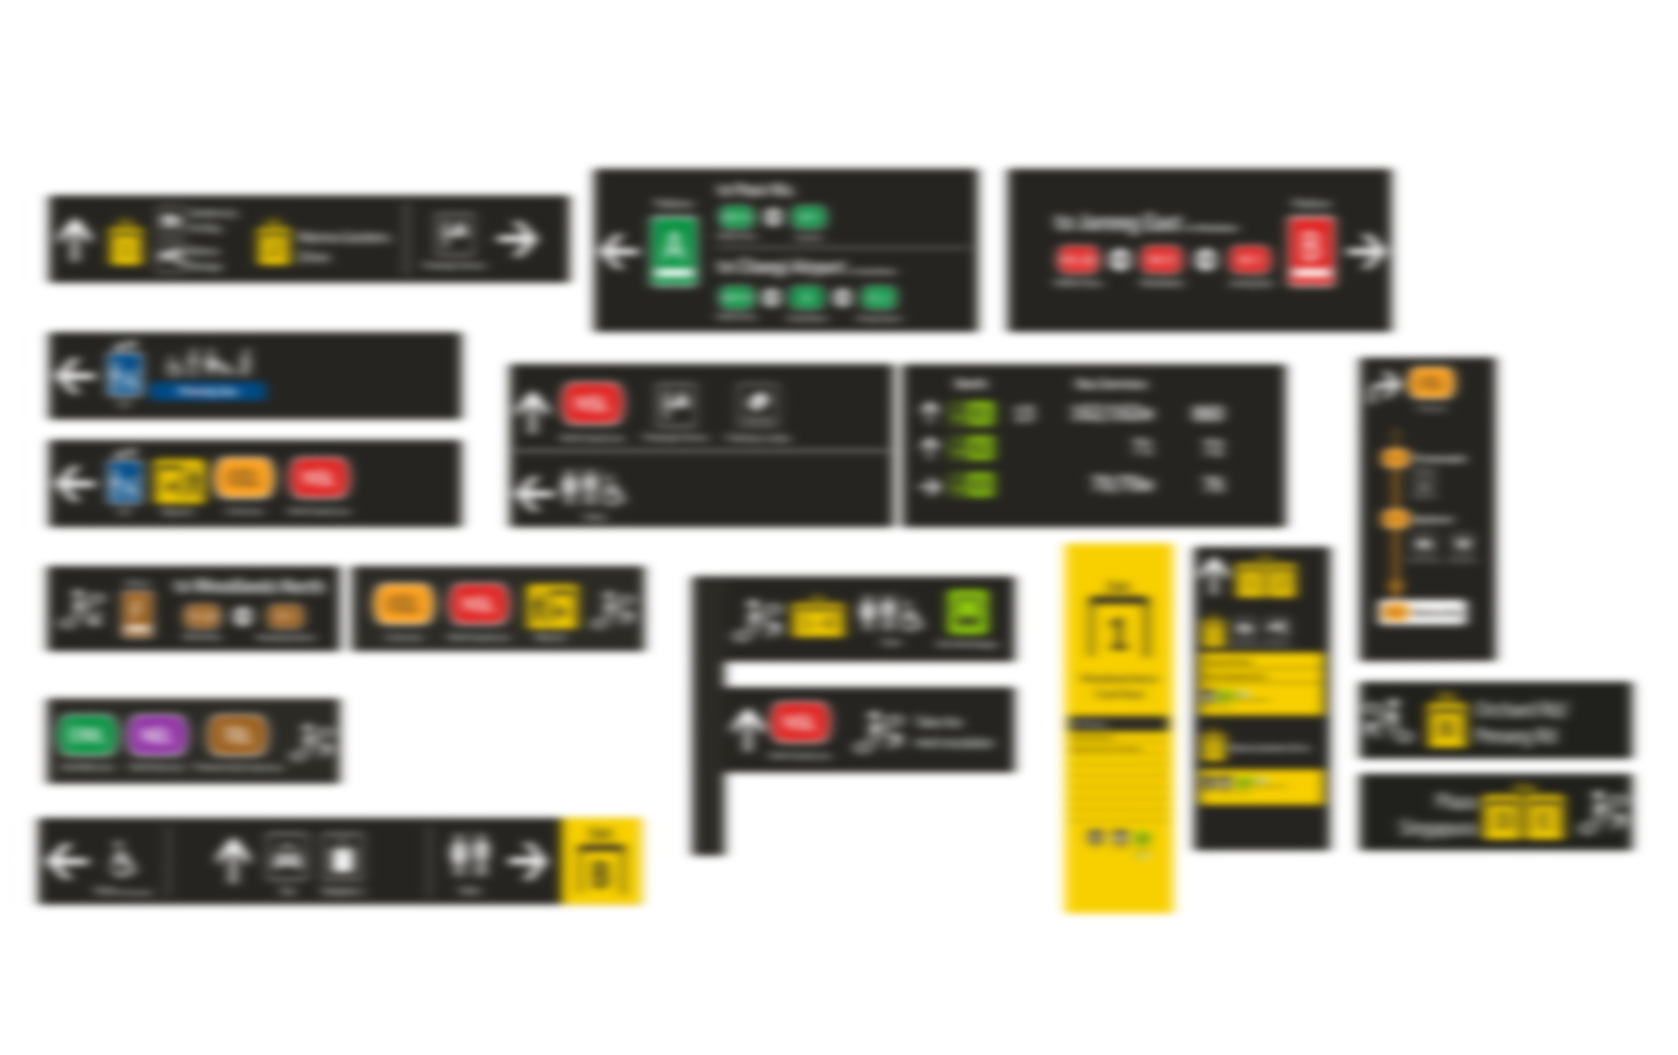
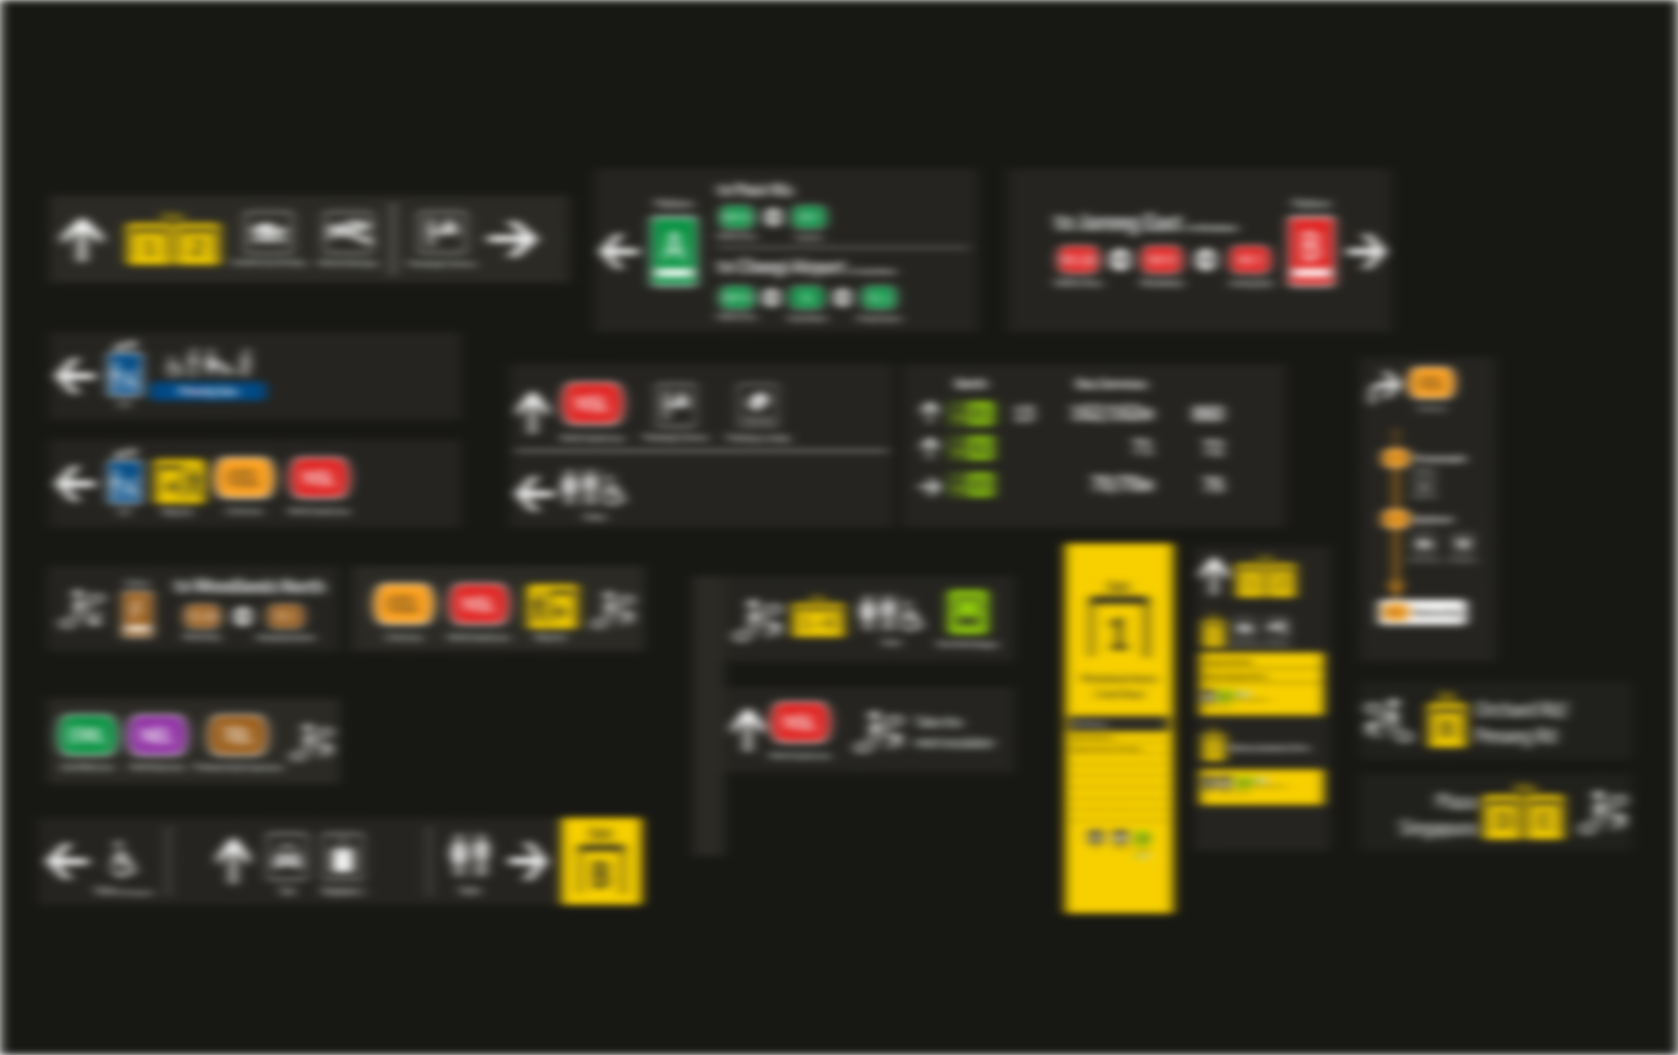
2023-01 Feature Update to signages-nrfz

diff --git a/index.html b/index.html
@@ -140,7 +140,7 @@
                   class="glightbox preview-link"><img src="assets/img/prob-sol-img/nws.jpg" class="img-fluid-portfolio"
                     alt=""></a>
                 <br><br>
-                <p class="contextImg-caption">Fig.1: The New Wayfinding System - in the initial state before
+                <p class="contextImg-caption">Fig. 1: The New Wayfinding System - in the initial state before
                   modifications
                   <br><b>Photo Credits: <a
                       href="https://eyeondesign.aiga.org/one-designers-quest-to-redesign-singapores-subway-signage/">
@@ -178,7 +178,7 @@
                   class="glightbox preview-link"><img src="assets/img/prob-sol-img/wdl-1.jpg"
                     class="img-fluid-portfolio" alt=""></a>
                 <br><br>
-                <p class="contextImg-caption text-center">Fig.2: Woodlands TEL's Portable Signs telling commuters to use
+                <p class="contextImg-caption text-center">Fig. 2: Woodlands TEL's Portable Signs telling commuters to use
                   the other set of escalators to NSL.
 
                 </p>
@@ -189,7 +189,7 @@
                   class="glightbox preview-link"><img src="assets/img/prob-sol-img/lnt-1.jpg"
                     class="img-fluid-portfolio" alt=""></a>
                 <br><br>
-                <p class="contextImg-caption text-center">Fig.3: Paper signs showing the Exit Directories
+                <p class="contextImg-caption text-center">Fig. 3: Paper signs showing the Exit Directories
 
                 </p>
               </div>
@@ -200,7 +200,7 @@
                     class="img-fluid-portfolio" alt=""></a>
                 <br><br>
                 <div class="portfolio-info">
-                  <p class="contextImg-caption text-center">Fig.4: Marina Bay TEL's Portable Signs telling commuters to
+                  <p class="contextImg-caption text-center">Fig. 4: Marina Bay TEL's Portable Signs telling commuters to
                     use
                     the other set of escalators to NSL. This is the same problem as the ones in woodlands TEL.
 
@@ -214,7 +214,7 @@
                     class="img-fluid-portfolio" alt=""></a>
                 <br><br>
                 <div class="portfolio-info">
-                  <p class="contextImg-caption text-center">Fig.5: Marina Bay TEL's Portable Signs showing commuters the
+                  <p class="contextImg-caption text-center">Fig. 5: Marina Bay TEL's Portable Signs showing commuters the
                     directions to NSL/CCL.
 
                   </p>
@@ -261,7 +261,7 @@
                         class="img-fluid-portfolio" alt=""></a>
                     <br><br>
                     <div class="portfolio-info">
-                      <p class="contextImg-caption text-center">Fig.6: A few examples of icons being used in the system.
+                      <p class="contextImg-caption text-center">Fig. 6: A few examples of icons being used in the system.
                         Recreated the real-life ones as accurate as possible
 
                       </p>
@@ -290,7 +290,7 @@
                         class="img-fluid-portfolio" alt=""></a>
                     <br><br>
                     <div class="portfolio-info">
-                      <p class="contextImg-caption text-center">Fig.7: Way Out icons at the Platform. The Exit
+                      <p class="contextImg-caption text-center">Fig. 7: Way Out icons at the Platform. The Exit
                         Directories are only available at the Concourse level
                         <br><b>Photo Credits: <a href="https://mothership.sg/2019/12/lta-new-map/">
                             Mothership.sg</a></b>
@@ -311,7 +311,7 @@
                         class="img-fluid-portfolio" alt=""></a>
                     <br><br>
                     <div class="portfolio-info">
-                      <p class="contextImg-caption text-center">Fig.8: Mayflower TEL's Portable Exit Directory (1)
+                      <p class="contextImg-caption text-center">Fig. 8: Mayflower TEL's Portable Exit Directory (1)
                         <br><b>Photo Credits: Discord User Adiel</b>
                       </p>
                     </div>
@@ -324,7 +324,7 @@
                         class="img-fluid-portfolio" alt=""></a>
                     <br><br>
                     <div class="portfolio-info">
-                      <p class="contextImg-caption text-center">Fig.9: Mayflower TEL's Portable Exit Directory (2)
+                      <p class="contextImg-caption text-center">Fig. 9: Mayflower TEL's Portable Exit Directory (2)
                         <br><b>Photo Credits: Discord User Adiel</b>
                       </p>
                     </div>
@@ -357,7 +357,7 @@
                         class="img-fluid-portfolio" alt=""></a>
                     <br><br>
                     <div class="portfolio-info">
-                      <p class="contextImg-caption text-center">Fig.10: Current Exit Directory list
+                      <p class="contextImg-caption text-center">Fig. 10: Current Exit Directory list
                       </p>
                     </div>
                   </div>
@@ -368,7 +368,7 @@
                         class="img-fluid-portfolio" alt=""></a>
                     <br><br>
                     <div class="portfolio-info">
-                      <p class="contextImg-caption text-center">Fig.11: Using Google Maps, they would normally tell you
+                      <p class="contextImg-caption text-center">Fig. 11: Using Google Maps, they would normally tell you
                         which Exits to take immediately. (Picture edited for privacy reasons) </b>
                       </p>
                     </div>
@@ -395,7 +395,7 @@
                         class="img-fluid-portfolio" alt=""></a>
                     <br><br>
                     <div class="portfolio-info">
-                      <p class="contextImg-caption text-center">Fig.12: A few examples of different icons being used in
+                      <p class="contextImg-caption text-center">Fig. 12: A few examples of different icons being used in
                         the system. Raffles Place uses a different set of icons (particularly, the Way Out and Exit
                         Letter icon), which seems like a newer design.
                         Recreated the real-life ones as accurate as possible
@@ -420,7 +420,7 @@
                       class="img-fluid-portfolio" alt=""></a>
                   <br><br>
                   <div class="portfolio-info">
-                    <p class="contextImg-caption text-center">Fig.13: New fonts, mix with old design? <br>
+                    <p class="contextImg-caption text-center">Fig. 13: New fonts, mix with old design? <br>
                       <b>Photo Credits: Discord user Joofer</a></b>
                     </p>
                   </div>
@@ -432,7 +432,7 @@
                       class="img-fluid-portfolio" alt=""></a>
                   <br><br>
                   <div class="portfolio-info">
-                    <p class="contextImg-caption text-center">Fig.14: New fonts, mix with old design? <br>
+                    <p class="contextImg-caption text-center">Fig. 14: New fonts, mix with old design? <br>
                       <b>Photo Credits: Discord user poopoo</a></b>
                     </p>
                   </div>
@@ -444,7 +444,7 @@
                       class="img-fluid-portfolio" alt=""></a>
                   <br><br>
                   <div class="portfolio-info">
-                    <p class="contextImg-caption text-center">Fig.15: Entirely new design <br>
+                    <p class="contextImg-caption text-center">Fig. 15: Entirely new design <br>
                       <b>Photo Credits: <a
                           href="https://www.instagram.com/p/CevPzR_pt8z/?utm_source=ig_embed&ig_rid=3777a39e-1425-415d-9963-ccd278406cee">
                           Instagram user mtsginfo</a></b>
@@ -515,7 +515,7 @@
                   class="glightbox preview-link"><img src="assets/img/prob-sol-img/mrbr.png" class="img-fluid-portfolio"
                     alt=""></a>
                 <br><br>
-                <p class="contextImg-caption text-center">Fig.16: Gardens By The Bay Concourse Signage
+                <p class="contextImg-caption text-center">Fig. 16: Gardens By The Bay Concourse Signage
 
                 </p>
               </div>
@@ -524,17 +524,27 @@
 
             <div class="row">
               <p class="summary" data-aos="fade-up" data-aos-delay="100">
-                Let's get back to the drawing board. Fig. 17 shows the idea, in Wireframe form. In Fig. 18, it shows
-                the comparison of how the current signage is like with the additions of texts. Fig. 19 is an example of
+                Let's get back to the drawing board. Fig. 17 shows the icon sets, now with added labels. Fig. 18 shows the idea, in Wireframe form. In Fig. 19, it shows
+                the comparison of how the current signage is like with the additions of texts. Fig. 20 is an example of
                 how the same proposed idea would be, retrofitted on the older signs.
               </p>
+
+              <div class="col-md-4 portfolio-item filter-id" data-aos="fade-up" data-aos-delay="100">
+                <a href="assets/img/prob-sol-img/wf-icons3.png" data-gallery="portfolio-gallery"
+                  class="glightbox preview-link"><img src="assets/img/prob-sol-img/wf-icons3.png"
+                    class="img-fluid-portfolio" alt=""></a>
+                <br><br>
+                <p class="contextImg-caption text-center">Fig. 17: Labelled icons for easier understanding. Emphasis still is on the icons. The text acts as a placeholder
+
+                </p>
+              </div>
 
               <div class="col-md-4 portfolio-item filter-id" data-aos="fade-up" data-aos-delay="100">
                 <a href="assets/img/prob-sol-img/nwsWF.png" data-gallery="portfolio-gallery"
                   class="glightbox preview-link"><img src="assets/img/prob-sol-img/nwsWF.png"
                     class="img-fluid-portfolio" alt=""></a>
                 <br><br>
-                <p class="contextImg-caption text-center">Fig.17: Signage Wireframe (Low-Fi)
+                <p class="contextImg-caption text-center">Fig. 18: Signage Wireframe (Low-Fi)
 
                 </p>
               </div>
@@ -544,7 +554,7 @@
                   class="glightbox preview-link"><img src="assets/img/prob-sol-img/wf1.gif" class="img-fluid-portfolio"
                     alt=""></a>
                 <br><br>
-                <p class="contextImg-caption text-center">Fig.18: Comparison between the current design, and my proposed
+                <p class="contextImg-caption text-center">Fig. 19: Comparison between the current design, and my proposed
                   design.
 
                 </p>
@@ -556,7 +566,7 @@
                     alt=""></a>
                 <br><br>
                 <div class="portfolio-info">
-                  <p class="contextImg-caption text-center">Fig.19: Proposed design, on the older signage boards
+                  <p class="contextImg-caption text-center">Fig. 20: Proposed design, on the older signage boards
 
                   </p>
                 </div>
@@ -579,7 +589,7 @@
                   class="glightbox preview-link"><img src="assets/img/prob-sol-img/exit-d-tel.jpeg"
                     class="img-fluid-portfolio" alt=""></a>
                 <br><br>
-                <p class="contextImg-caption text-center">Fig.20: An Exit Directory and Locality Map, found on TEL
+                <p class="contextImg-caption text-center">Fig. 21: An Exit Directory and Locality Map, found on TEL
                   stations
 
                 </p>
@@ -589,7 +599,7 @@
 
             <div class="row">
               <p class="summary" data-aos="fade-up" data-aos-delay="100">
-                Let's get back to the drawing board. Fig. 21 shows the idea, in Wireframe form. In Fig 22, it shows
+                Let's get back to the drawing board. Fig. 22 shows the idea, in Wireframe form. In Fig 23, it shows
                 the comparison of how the current signage is like with the additions of texts.
               </p>
 
@@ -598,7 +608,7 @@
                   class="glightbox preview-link"><img src="assets/img/prob-sol-img/nwsWF2.png"
                     class="img-fluid-portfolio" alt=""></a>
                 <br><br>
-                <p class="contextImg-caption text-center">Fig.21: Exit Directory Wireframe (Low-Fi)
+                <p class="contextImg-caption text-center">Fig. 22: Exit Directory Wireframe (Low-Fi)
 
                 </p>
               </div>
@@ -608,7 +618,7 @@
                   class="glightbox preview-link"><img src="assets/img/prob-sol-img/wf3a.png" class="img-fluid-portfolio"
                     alt=""></a>
                 <br><br>
-                <p class="contextImg-caption text-center">Fig.22: Comparison between the current design, and my proposed
+                <p class="contextImg-caption text-center">Fig. 23: Comparison between the current design, and my proposed
                   design.<br> (Left - Proposed Design, Right - Current)
 
                 </p>
@@ -648,7 +658,7 @@
                     class="glightbox preview-link"><img src="assets/img/prob-sol-img/proto1.png"
                       class="img-fluid-portfolio" alt=""></a>
                   <br><br>
-                  <p class="contextImg-caption text-center">Fig.23: Reworked signages for Woodlands TEL, middle set of
+                  <p class="contextImg-caption text-center">Fig. 24: Reworked signages for Woodlands TEL, middle set of
                     escalators
                   </p>
                   </p>
@@ -668,7 +678,7 @@
                   class="glightbox preview-link"><img src="assets/img/prob-sol-img/proto2.png"
                     class="img-fluid-portfolio" alt=""></a>
                 <br><br>
-                <p class="contextImg-caption text-center">Fig.24: Reworked signages for existing signages - Dhoby Ghaut
+                <p class="contextImg-caption text-center">Fig. 25: Reworked signages for existing signages - Dhoby Ghaut
                   CCL station
                 </p>
                 </p>
@@ -692,7 +702,7 @@
                   class="glightbox preview-link"><img src="assets/img/prob-sol-img/proto3.png"
                     class="img-fluid-portfolio" alt=""></a>
                 <br><br>
-                <p class="contextImg-caption text-center">Fig.25: Reworked signages for existing Bus Interchange
+                <p class="contextImg-caption text-center">Fig. 26: Reworked signages for existing Bus Interchange
                   signages
                   - Yio Chu Kang Bus Interchange.
                   <br><b>Photo Credits: <a href="https://landtransportguru.net/yio-chu-kang-bus-interchange/">
@@ -720,7 +730,7 @@
                   class="glightbox preview-link"><img src="assets/img/prob-sol-img/proto4.png"
                     class="img-fluid-portfolio" alt=""></a>
                 <br><br>
-                <p class="contextImg-caption text-center">Fig.26: Exit Directory integrated to the Exit sign
+                <p class="contextImg-caption text-center">Fig. 27: Exit Directory integrated to the Exit sign
                   <br><b>Photo Credits: <a href="https://www.facebook.com/groups/sgtrainsbuzz/posts/8800748059950227/">
                       脇杰倫 via Latest Buzz!!! - SGTrains (Private Group)</a></b>
                 </p>
@@ -743,7 +753,7 @@
                   class="glightbox preview-link"><img src="assets/img/prob-sol-img/proto5.png"
                     class="img-fluid-portfolio" alt=""></a>
                 <br><br>
-                <p class="contextImg-caption text-center">Fig.27: Exit Directory integrated to the Exit sign
+                <p class="contextImg-caption text-center">Fig. 28: Exit Directory integrated to the Exit sign
                   <br><b>Photo Credits: Discord user poopoo</b>
                 </p>
               </div>
@@ -761,7 +771,7 @@
                   class="glightbox preview-link"><img src="assets/img/prob-sol-img/proto6.png"
                     class="img-fluid-portfolio" alt=""></a>
                 <br><br>
-                <p class="contextImg-caption text-center">Fig.28: Reworked signages for existing signages - Tampines EWL
+                <p class="contextImg-caption text-center">Fig. 29: Reworked signages for existing signages - Tampines EWL
                   Station
                 </p>
                 </p>
